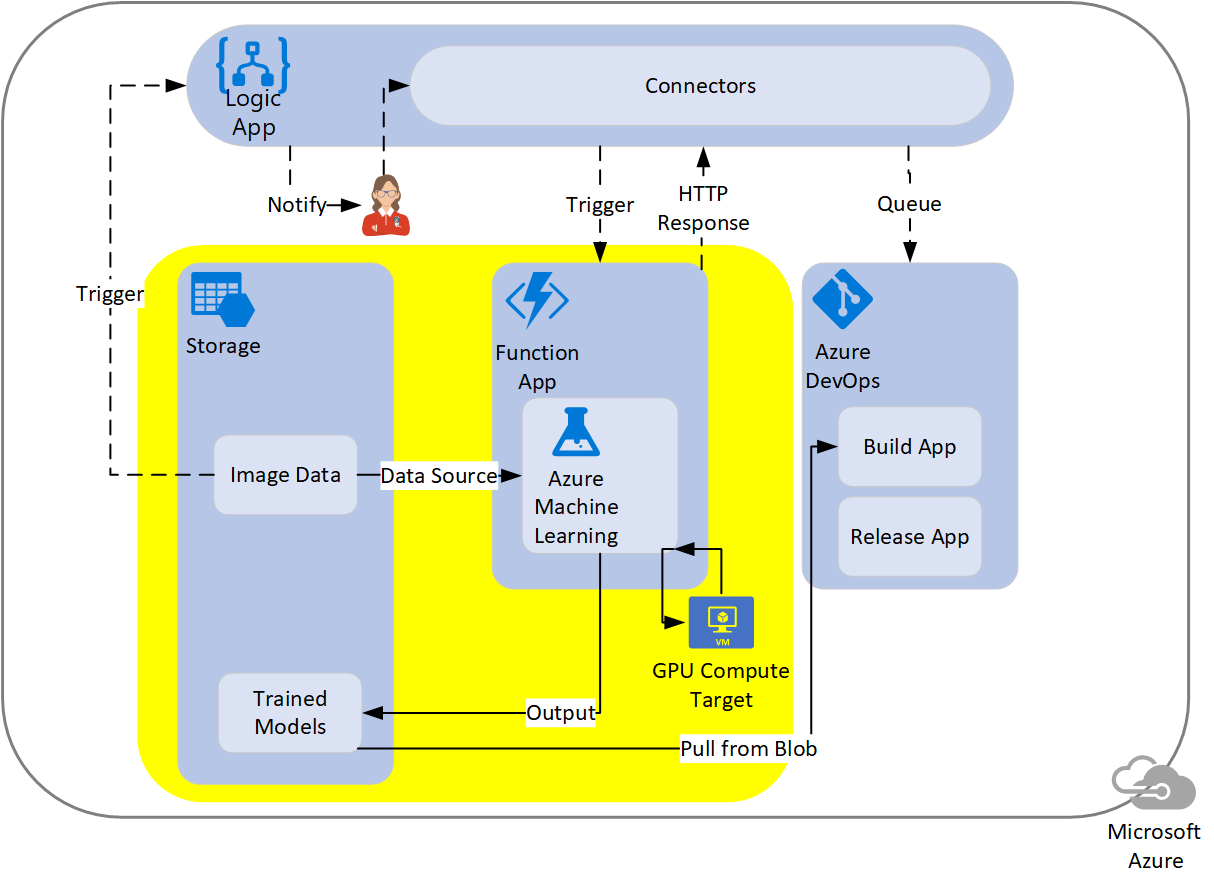
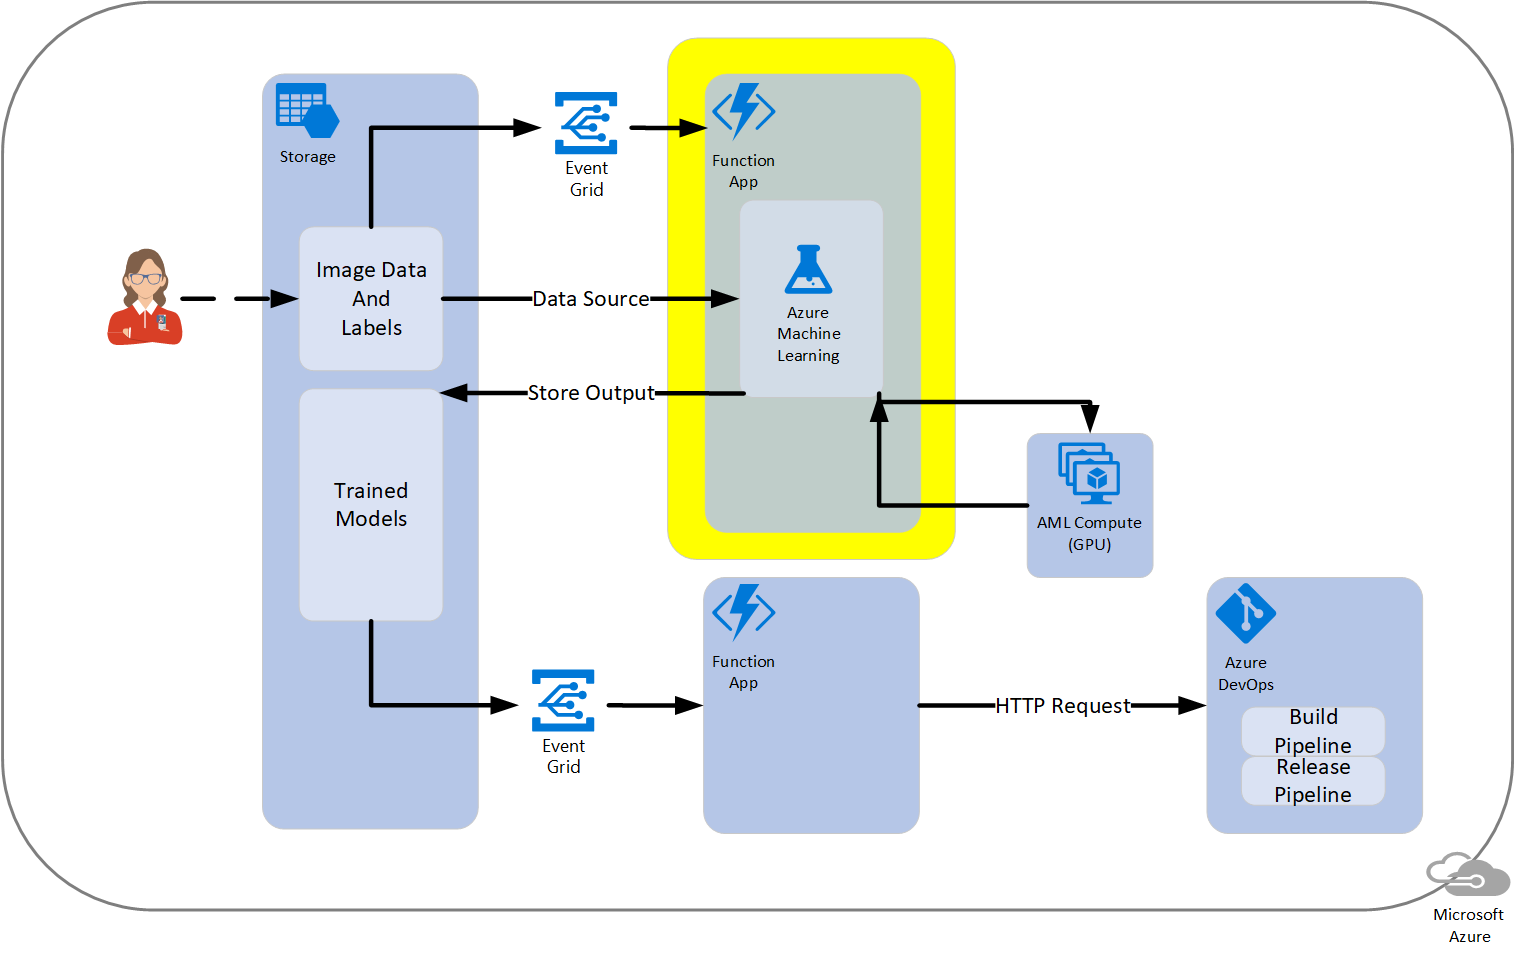
updated architecture and intro

diff --git a/README.md b/README.md
@@ -2,13 +2,15 @@
 
 _Work in progress/not ready for production_
 
-Automating the training of new ML model given code updates and/or new data with labels provided by a data scientist, can pose a challenge in the context of the dev ops or app development process due to the manual nature of data science work.  One solution would be to use a training script (written by the data scientist) with the AzureML Python SDK within an Azure Function (managed by the app developer) to train an ML model on a seperate compute (automatically performed) and trigger a build/release an intelligent application (managed by the app developer and dev ops professional).
+Automating the training of new ML model given code updates and/or new data with labels provided by a data scientist, can pose a challenge in the context of the dev ops or app development process due to the manual nature of data science work.  One solution would be to use a training script (written by the data scientist) with the <a href="https://docs.microsoft.com/en-us/python/api/overview/azure/ml/intro?view=azure-ml-py" target="_blank">Azure Machine Learning SDK for Python</a> (Azure ML Python SDK) run with a lightweight Azure Function that sends a training script to larger compute (process managed by the dev ops professional) to train an ML model (automatically performed when new data appears).  This, then, triggers the build and release of an intelligent application (managed by the app developer).
 
-The intent of this repository is to communicate the process of training a model using a Python-based Azure Function and the AzureML Python SDK, as well as, to provide a code sample for doing so.  Training a model with the AzureML Python SDK involves setting, possibly provisioning and consuming an Azure Compute option (e.g. an N-Series AML Compute) - the model _is not_ trained within the Azure Function Consumption Plan.  Triggers for the Azure Function could be HTTP, Event Grid or, as proposed in the architecture below, a Logic App.
+The intent of this repository is to communicate the process of training a model using a Python-based Azure Function and the Azure ML Python SDK, as well as, to provide a code sample for doing so.  Training a model with the Azure ML Python SDK involves utilizing an Azure Compute option (e.g. an N-Series AML Compute) - the model **_is not_** trained within the Azure Function Consumption Plan.  Triggers for the Azure Function could be HTTP Requests, an Event Grid or some other <a href="https://docs.microsoft.com/en-us/azure/azure-functions/functions-triggers-bindings"  target="_blank">trigger</a>.
 
-The motivation behind this process was to provide a way to automate ML model training/retraining once new data is provided _and potentially_ labels which are stored Azure Storage Blob containers.  The idea is that once new data is provided, it would signal training a new model and subsequently performing evaluation and A/B testing.  The downstream event from the Azure Function could be moving a model to a separate "models" Blob container.  This new model could, then, be part of an Azure DevOps Pipeline build/release, for example.
+The motivation behind this process was to provide a way to automate ML model training/retraining in a lightweight, serverless fashion, once new data is provided _and potentially_ labels which are stored Azure Storage Blob containers.  This solution is especially attractive for people familiar with <a href="https://docs.microsoft.com/en-us/azure/azure-functions/functions-overview" target="_blank">Azure Functions</a>.
 
-The following diagram represents this process as part of a larger deployment where, for example, Blob data ingress/update triggers a Logic App that starts the Function App, after a human approves, and thus, runs the AzureML training script producing an ML model to be stored back into Blob.  If the Function App and AzureML experiment produces a more performant model than the one already in production it can trigger the Logic App to queue an Azure DevOps build and release of an application that packagesa and consumes the ML model for inferencing.  The highlighted region below, involving Storage, AzureML and Functions, is the focus of this Python-based example.
+The idea is that once new data is provided, it would signal training a new model via an Event Grid - note that the _training is actually done on a separate compute_, not in the Function.  The Azure ML SDK can be set up to output a model to a user-specified Storage option, here shown as the "Trained Models" Blob Storage Container.  Another lightweight Function, triggered by Event Grid, may be used to send an HTTP request to an Azure DevOps build Pipeline to create the final application.
+
+The following diagram represents an example process as part of a larger deployment.  The end product or application could be an IoT Edge module, web service or any other application a DevOps build/release can produce.
 
 <img src="images/arch_diagram.png" width="100%">
 
@@ -91,7 +93,11 @@ This may time out, but don't worry if this happens.  For proof of successful exe
 
 ## References
 
-1. [How to call another function with in an Azure function (StackOverflow)](https://stackoverflow.com/questions/46315734/how-to-call-another-function-with-in-an-azure-function)
+1. <a target="_blank" href="https://docs.microsoft.com/en-us/rest/api/azure/devops/build/Builds/Queue?view=azure-devops-rest-5.1">Queue an Azure DevOps Build with HTTP request</a>
+2. <a href="https://docs.microsoft.com/en-us/azure/machine-learning/service/overview-what-is-azure-ml" target="_blank">Azure Machine Learning Services Overview</a>
+3. <a href="https://docs.microsoft.com/en-us/azure/machine-learning/service/how-to-access-data" target="_blank">Using a Azure Storage with Azure ML Python SDK</a>
+4. <a href="https://docs.microsoft.com/en-us/azure/azure-functions/functions-create-first-function-python" target="_blank">Python Azure Functions</a>
+5. [How to call another function with in an Azure function (StackOverflow)](https://stackoverflow.com/questions/46315734/how-to-call-another-function-with-in-an-azure-function)
 
 
 
